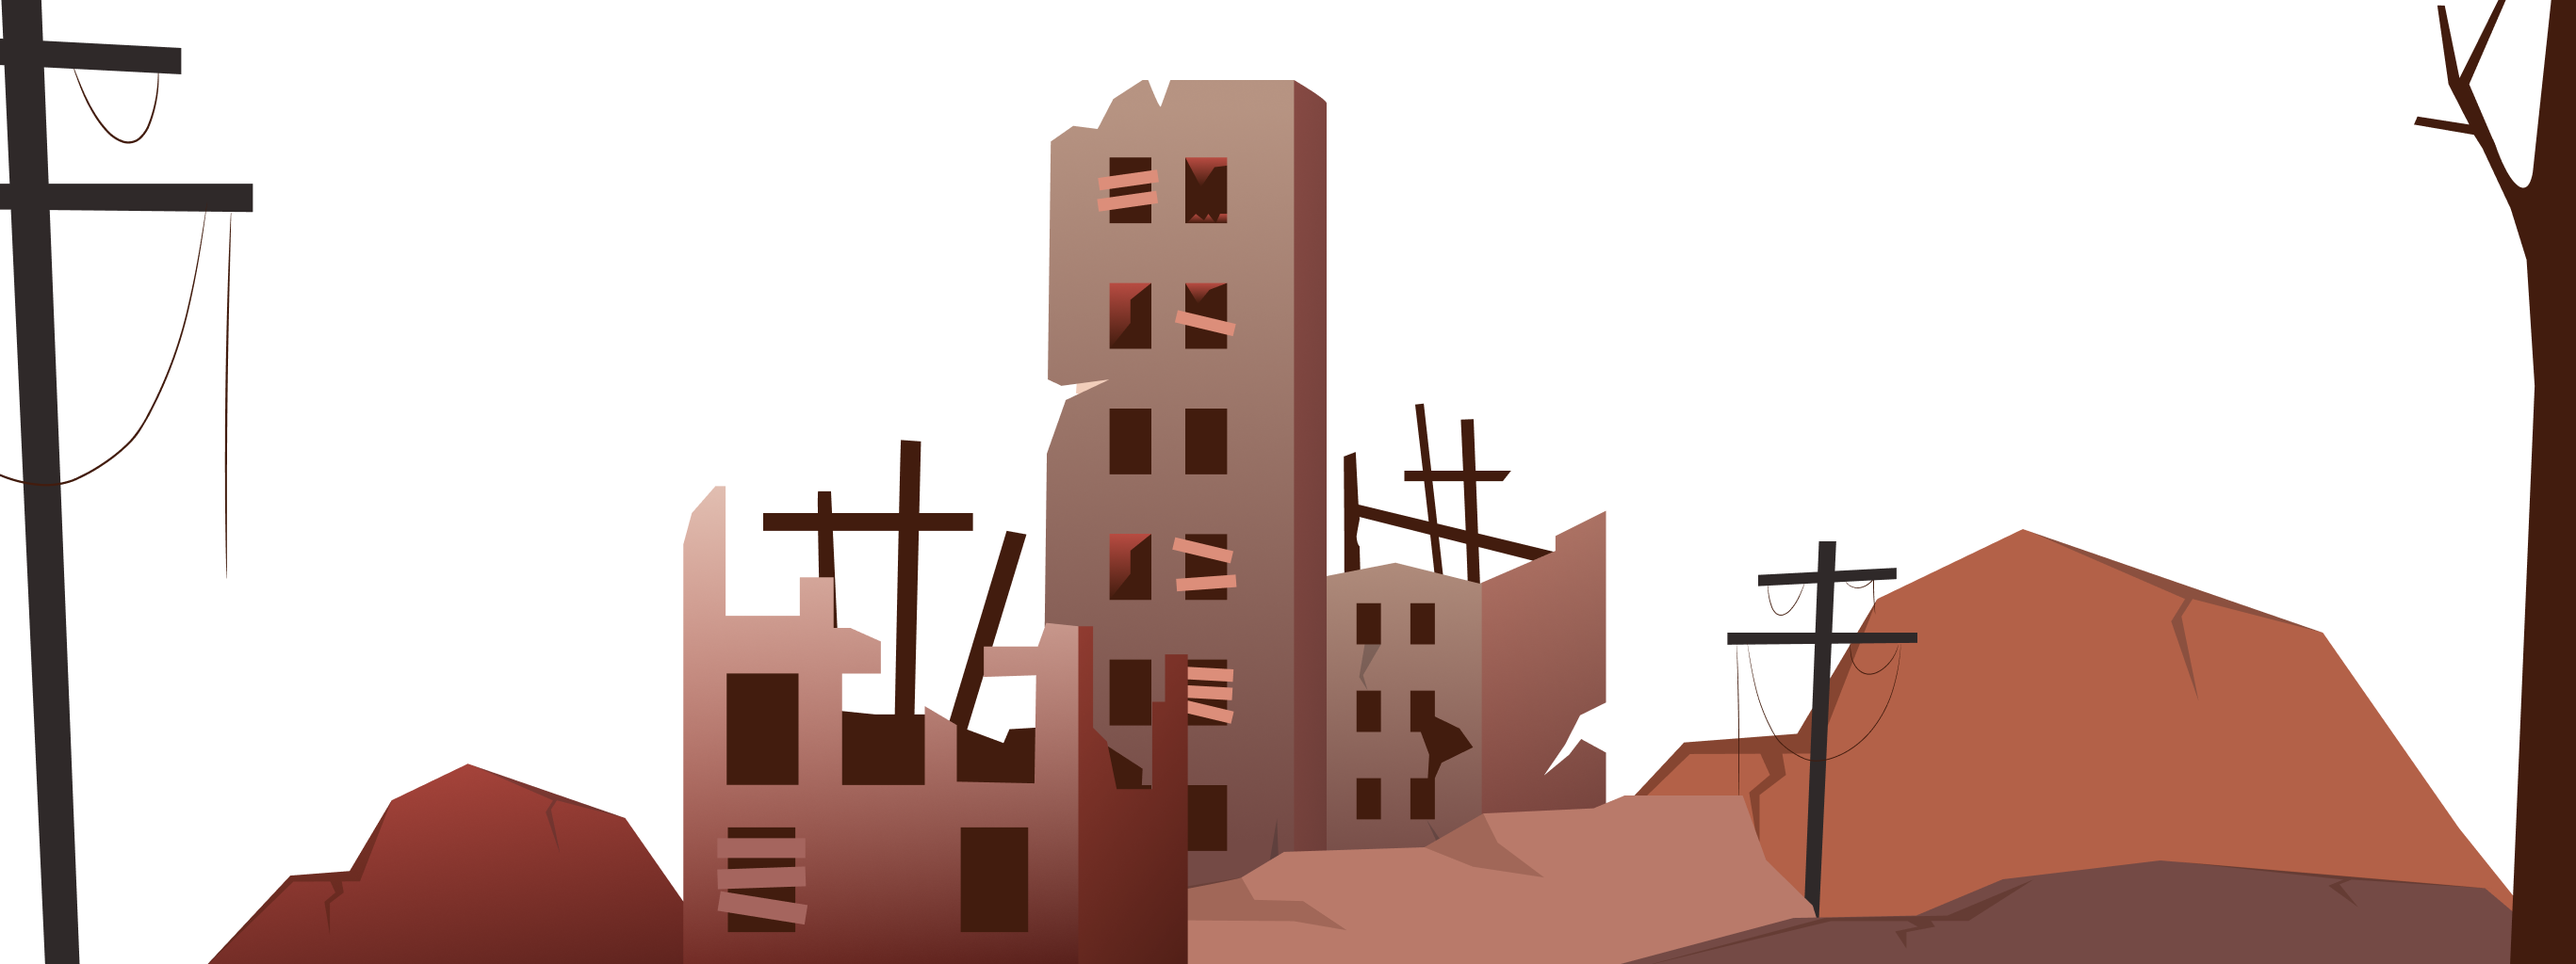
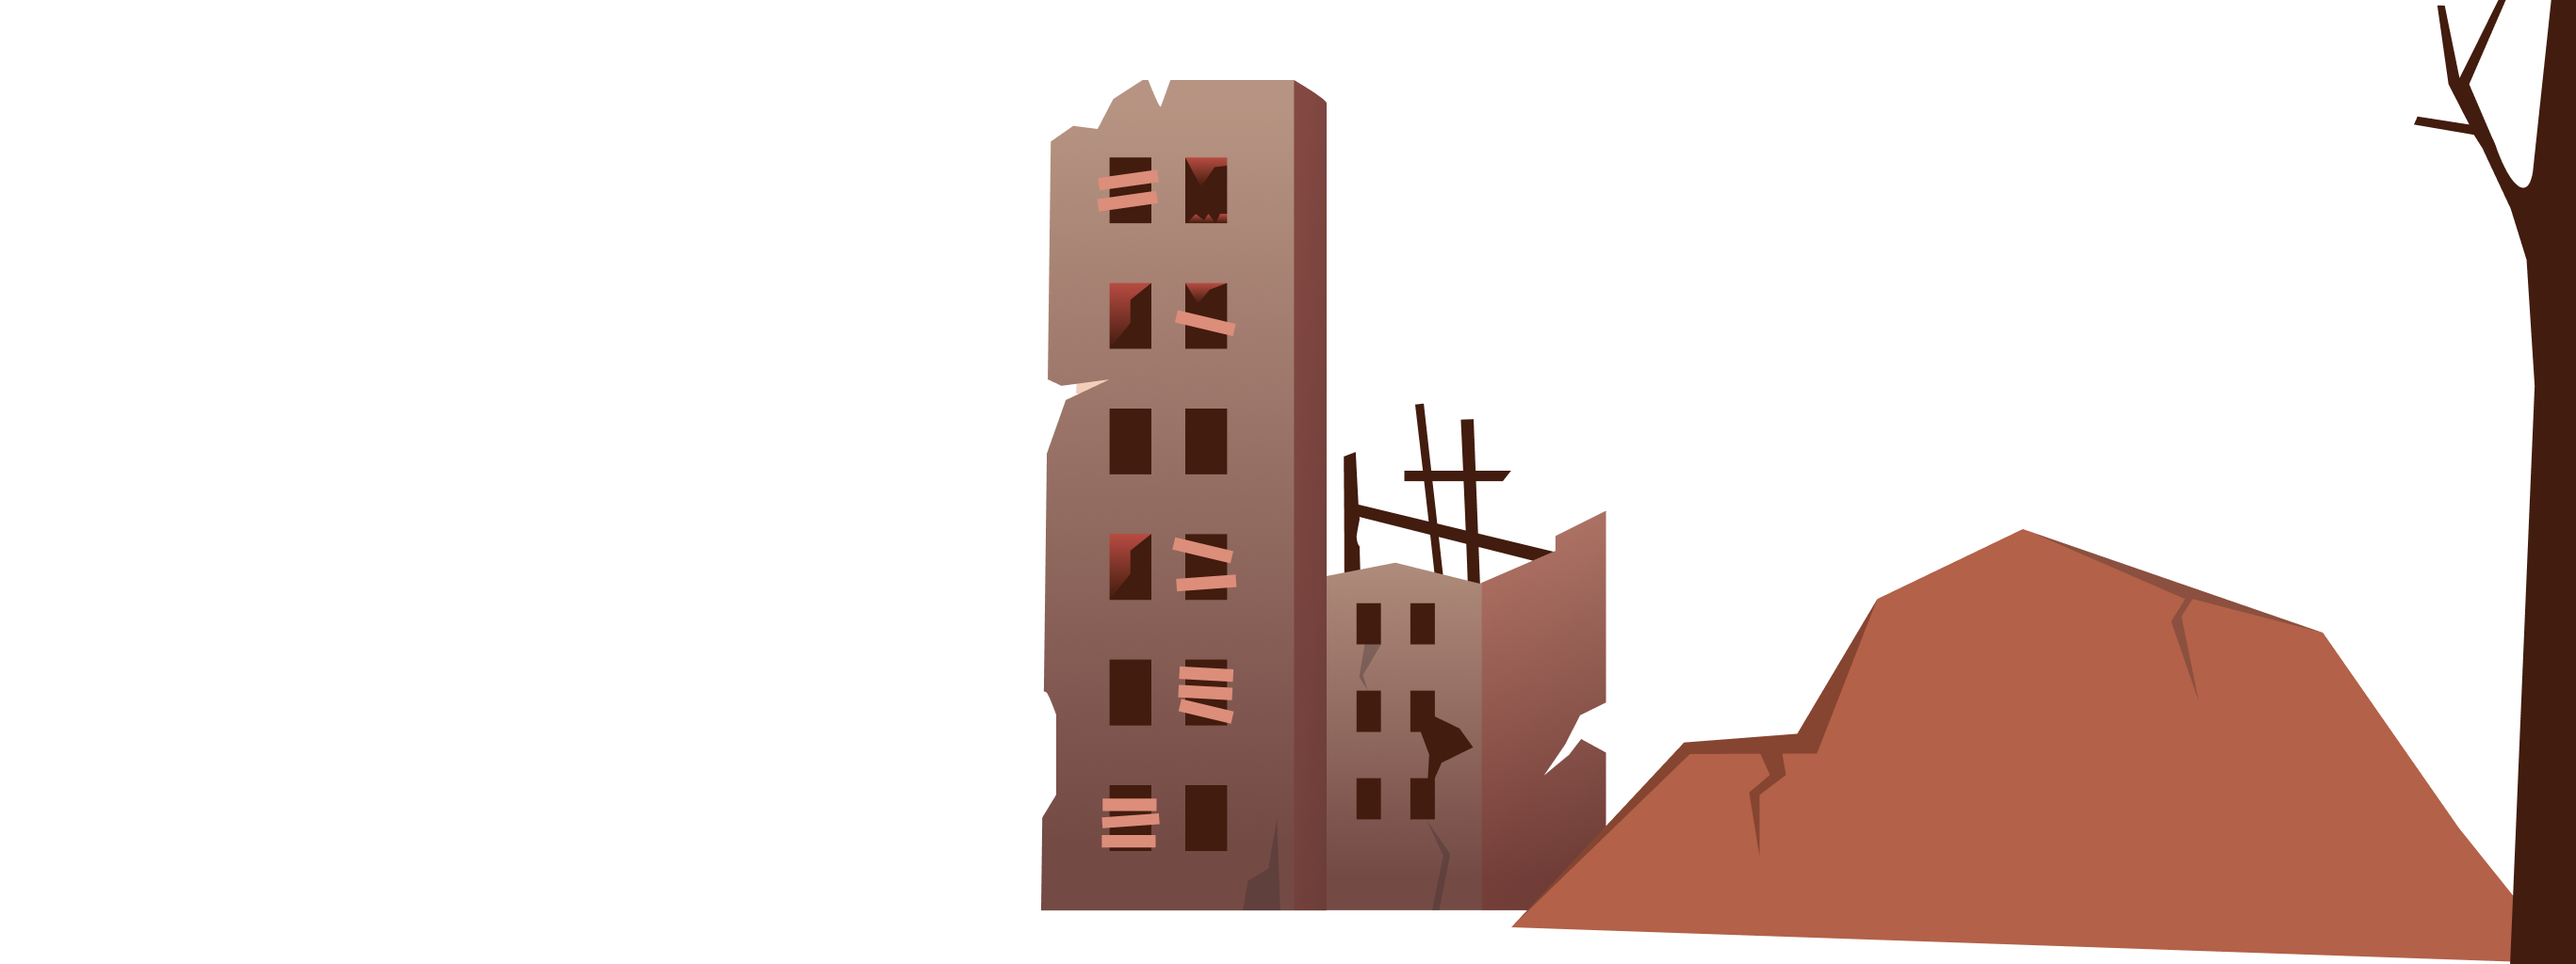
tweak b--quote & parallax chapter 4.

Changed region(s): [[0.0622, 0.4375, 0.9949, 1.0], [0.0, 0.0, 0.1244, 1.0]]

diff --git a/components/Chapter4.vue b/components/Chapter4.vue
@@ -2,10 +2,11 @@
     <section class="b--page-a__item b--chapter4-a" id="Scene4" ref="Scene4" v-if="chapter">
         <div class="b--ss-a"> 
             <div class="b--ss-a__ft-items">
+                <img class="b--chapter4-a__artwork b--chapter4-a__artwork--fourth" ref="parallax-ft-1" src="@/assets/img/chapter-4/front-parallax.png" alt="">
                 <img 
-                v-lazy="require(`@/assets/img/chapter-4/front.png`)"
-                class="b--ss-a__ft-items__artwork"
-                alt="front" 
+                    v-lazy="require(`@/assets/img/chapter-4/front.png`)"
+                    class="b--ss-a__ft-items__artwork"
+                    alt="front" 
                 />
             </div>
             <div class="b--ss-a__content">
@@ -24,22 +25,10 @@
                         customClass="b--quote-a--second"
                     />
                 </div>
-                <!-- third position element, tent -->
-                <div class="b--chapter4-a__artwork">
-                <img 
-                    v-lazy="require(`@/assets/img/chapter-4/tent.svg`)"
-                    class="b--chapter4-a__artwork__media"
-                    @load="handleLoad"
-                    @error="handleLoad" 
-                    alt="tent" 
-                />
-                </div>
             </div>
             <div class="b--ss-a__bg-items">
-                <img class="b--ss-a__bg-items__artwork" 
-                @load="handleLoad"  
-                @error="handleLoad" 
-                src="@/assets/img/chapter-4/back.png">        
+                <img class="b--ss-a__bg-items__artwork" @load="handleLoad"  @error="handleLoad" src="@/assets/img/chapter-4/back.jpg">  
+                <img class="b--chapter4-a__artwork b--chapter4-a__artwork--third" ref="parallax-bg-1" src="@/assets/img/chapter-4/back-parallax.png" alt="">      
             </div>
         </div>
     </section>
@@ -110,17 +99,28 @@ export default {
         scrollTween(newValue, oldValue){
             if (newValue ) {
                 var motion = [
-                    {obj:this.$refs['parallax-3-ft'], intensity:.5},
+                    {obj:this.$refs['parallax-bg-1'], intensity:1},
+                    {obj:this.$refs['parallax-ft-1'], intensity:.5},
+                    {obj:this.$refs['parallax-ft-1'], intensity:.3},
                 ]
-                // motion.forEach(item => {
-                //     this.parallaxMove({
-                //         el: item.obj,
-                //         intensity:item.intensity,
-                //         duration: this.$refs['Scene3'].offsetWidth,
-                //         containerAnimation:this.scrollTween,
-                //         scrub:1,
-                //     })  
-                // });
+                motion.forEach(item => {
+                    this.parallaxMove({
+                        el: item.obj,
+                        intensity:item.intensity,
+                        duration: this.$refs['Scene4'].offsetWidth,
+                        containerAnimation:this.scrollTween,
+                        scrub:1,
+                    })  
+                });
+                motion.forEach(item => {
+                    this.parallaxMove({
+                        el: item.obj,
+                        intensity:item.intensity,
+                        duration: this.$refs['Scene4'].offsetWidth,
+                        containerAnimation:this.scrollTween,
+                        scrub:1,
+                    })  
+                });
                 this.animate();
             } 
         }

diff --git a/components/quote/Quote.vue b/components/quote/Quote.vue
@@ -1,7 +1,7 @@
 <template>
     <div class="b--quote-a" :class="customClass">
-        <div class="b--quote-a__content">
-            {{ chapter.quote }}
+        <div class="b--quote-a__content b--content-a">
+            <SanityContent :blocks="chapter.quote" /> 
         </div>
         <div class="b--quote-a__meta">
             <a :href="chapter.quote_author_link" target="_blank" rel="noopener noreferrer" class="b--quote-a__meta__title">{{ chapter.quote_author }}</a>
@@ -12,7 +12,11 @@
         </div>
 </template>
 <script>
+import { SanityContent } from '@nuxtjs/sanity/dist/components/sanity-content';
 export default {
+    components: {
+        SanityContent,
+    },
     props : [
         'chapter',
         'customClass'

diff --git a/sass/framework/components/chapter/b--chapter4-a.scss b/sass/framework/components/chapter/b--chapter4-a.scss
@@ -49,8 +49,15 @@
   // tent
   &__artwork {
     position: absolute;
-    width: 23.05%;
-    left: 70.61%;
-    bottom: -0.5%;
+    &--third{
+      top:0 ;
+      left: 0;
+      max-width: 100%;
+    }
+    &--fourth{
+      bottom:0 ;
+      left: 0;
+      max-width: 100%;
+    }
   }
 }

diff --git a/sass/framework/components/quote/b--quote-a.scss b/sass/framework/components/quote/b--quote-a.scss
@@ -1,6 +1,5 @@
 .b--quote-a {
   &__content {
-    @include make-font-d();
     margin-bottom: 2.34vh;
   }
   &__meta {
